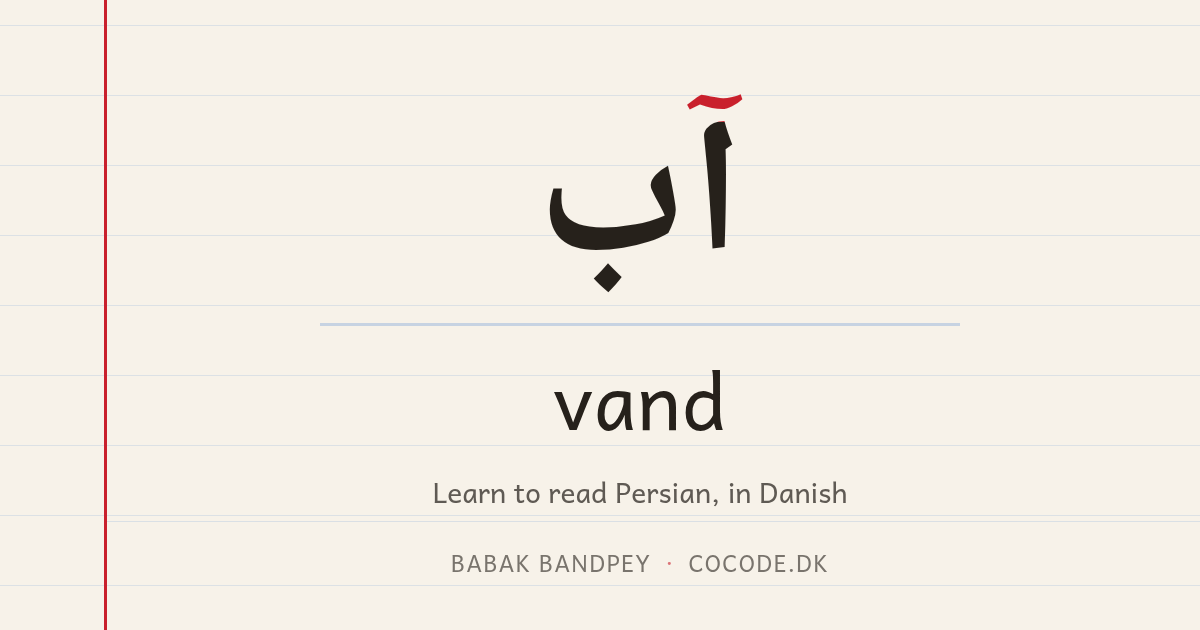
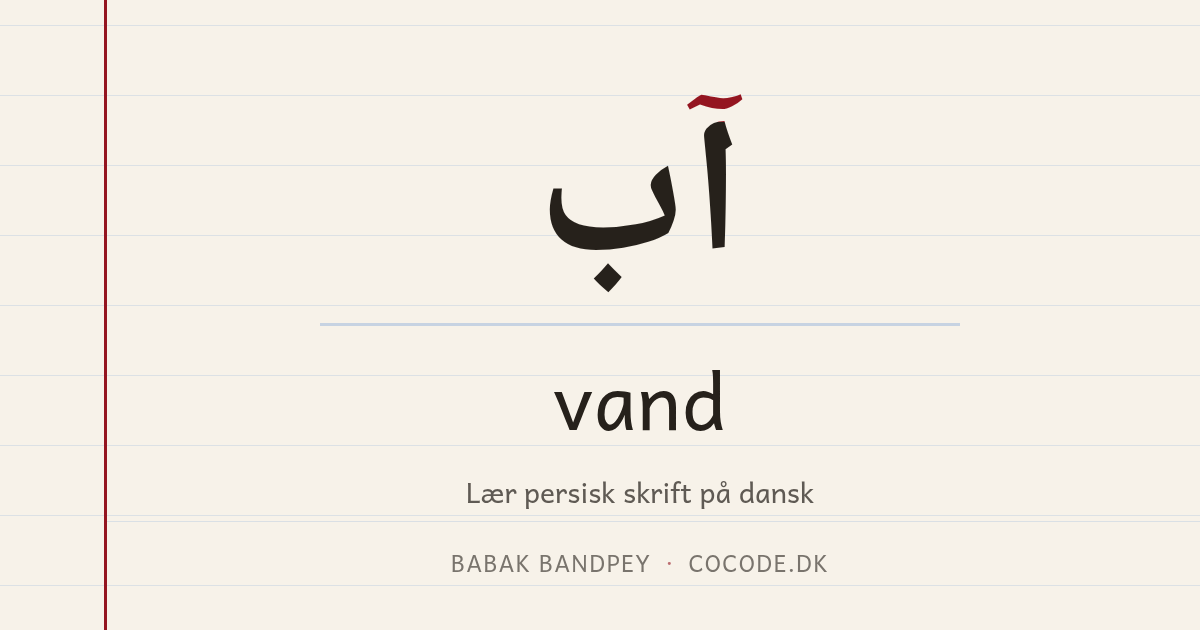
fix: use Danish app and share titles (#28)
* fix: use Danish app title

* fix: use Danish text in OG image

Changed region(s): [[0.37, 0.754, 0.7092, 0.8143], [0.555, 0.1508, 0.6167, 0.181]]

diff --git a/website/og-image.html b/website/og-image.html
@@ -1,8 +1,8 @@
 <!doctype html>
-<html lang="en">
+<html lang="da">
 <head>
 <meta charset="utf-8">
-<title>Open Graph card — 1200×630 — Danish-Persian Lessons</title>
+<title>Open Graph-billede — 1200×630 — Lær persisk skrift</title>
 <!--
   Source layout for og.png. Render at exactly 1200×630:
 
@@ -137,7 +137,7 @@
       <p class="fa" lang="fa" dir="rtl">آب</p>
       <hr class="split">
       <p class="da" lang="da">vand</p>
-      <p class="caption">Learn to read Persian, in Danish</p>
+      <p class="caption" lang="da">Lær persisk skrift på dansk</p>
     </div>
     <p class="attribution">Babak Bandpey <span class="dot">·</span> cocode.dk</p>
   </div>

diff --git a/index.html b/index.html
@@ -10,7 +10,7 @@ try {
   if (mode === 'light' || mode === 'dark') document.documentElement.classList.add(`scheme-${mode}`)
 } catch { /* The device colours remain in use when storage is blocked. */ }
 </script>
-<title>Danish-Persian Lessons</title>
+<title>Lær persisk skrift</title>
 <link rel="icon" type="image/svg+xml" href="/favicon.svg" />
 </head>
 <body>
